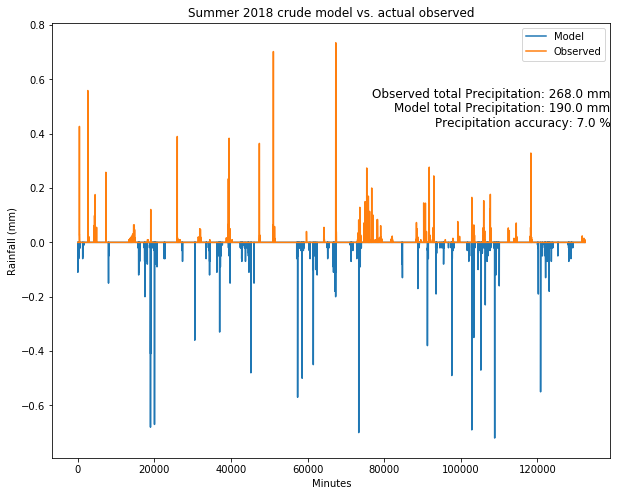
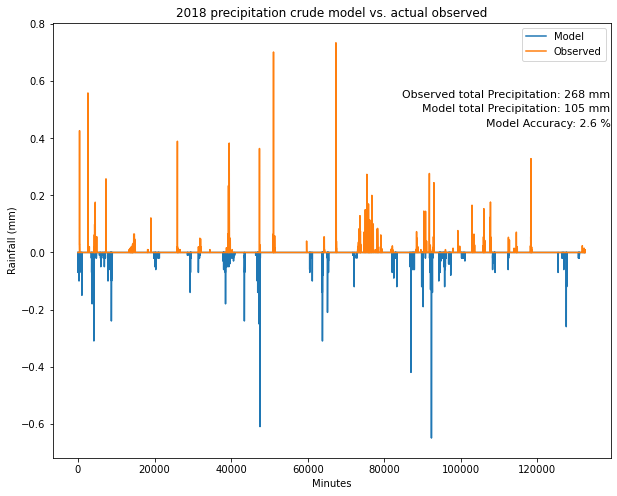
Redoing the first model and adding more

diff --git a/ST2021/thesis.tex b/ST2021/thesis.tex
@@ -737,11 +737,12 @@ Running the model one hundred times lets us look at what average total
 precipitation the model yields. It yields 195~mm compared to the Summer 2018
 total of 268~mm in the data that we used for the exponential
 fitting. Furthermore, the accuracy of model precipitation matching model
-precipitation is only 6$\%$. Looking at Figure~\ref{crudemodel}, we see that
-the model precipitation total is lower than the actual precipitation
+precipitation is only 2.6$\%$. Looking at Figure~\ref{crudemodel}, we see that the model precipitation total is lower than the actual precipitation
 observed in the Summer of 2018. Furthermore, the precipitation seems to be
-more frequent compared to the observed 2018 Summer data.
-
+more frequent compared to the observed 2018 Summer data. The usage of 98th percentage for all parameters, which are intensity, precipitation event duration, and non-precipitation event duration, shows that the intensity 
+for the model is generally good, except the model lacks the most intense values as expected from the using up to the 98th percentile.
+ 
+ 
 It is clear that despite the better fit that is obtained when the
 exponential distributions are fit using data up to the 98th percentile only,
 we should use the full 100th percentile of the data for the model fitting,
@@ -756,11 +757,11 @@ precipitation shows how this model needs more improvement.
   \centering
   \includegraphics[width=0.65\textwidth]{Figures/best_one_run.png}
   \caption[Modified run using Summer 2018 climatology]
-          {\label{crudermodel}One model run using the 100th percentile
+          {\label{crudermodel} One model run using the 100th percentile
             exponentials calculated from Summer 2018. The patterns with the
             modeled precipitation looks closer to actual
             precipitation. However, the details show they are different, the
-            precipitation accuracy is only 7\% and the total precipitation
+            precipitation accuracy is only 2.6\% and the total precipitation
             is still underestimated. }
 \end{figure}
 
@@ -772,19 +773,43 @@ precipitation shows how this model needs more improvement.
     the entire year of 2018. }
 \end{figure}
 \clearpage
+% We can try to apply our analysis on each of the models to see how the
+% calculations for the exponentials differ between the models and the 
+% observed data. 
+% Need to quickly replace the figure as it flips the two labels, the bottom one is the observed and the top one is the predicted. 
+
 
 \subsection{Discussion}\label{sec:spc_d}
 
-Why you need more work. Making predictions based on random guesses, however
+Making predictions based on random guesses, however
 well informed, has limited success. This is seen with the accuracy of
-predicting precipitation
+predicting precipitation. It shows that no matter how we do with the
+model, such a model that characterizes the distribution of the three
+parameters we analyzed in the precipitation data, can give you a similar
+looking pattern of precipitation, but is not very accurate as seen with
+the different graphs showing about a 3\% accuracy for the model. At the
+same time, we have a dilema in which using the 98th percentile
+exponentials will give you a preciptiation time series that looks nothing
+like the observed model, but is close to the value of total precipitation
+for the observed model. Using the 100th percentile exponentials, will give
+you a preciptation time series that looks a lot like the observed
+precipitation time series, but will have much less total precipitation
+compared to the 98th percentile exponential and the observed total
+precipitation. 
 
 We can see that despite the flaws that we get from the exponential fits,
-this gives us a good baseline to start off.
+this gives us a good baseline to start off. As it tell us that there are other methods to look at in order to get a better model to predict precipitation. 
 
-Discuss the Figure~\ref{crudesmodel_whole2018} as showing the need to do the
-seasonal breakdown.
-
+Figure~\ref{crudesmodel_whole2018} is interesting as we are trying to
+compare the observed 2018 precipitation data to a model run from using the
+calculated exponentials for the three parameters we sought to analyze from
+the precipitation data. It is clear that the observed data shows that
+there are seasonal variations do matter as they have different patterns. 
+Thus it validates the notion to split the analysis of the exponentials 
+into the four seasons, as although its possible to have intense
+precipitation to occur in the winter, it is not at all typical of what we
+usually see in the winter and intense precipitation would usually occur in
+the summer.   
 
 \clearpage
 
